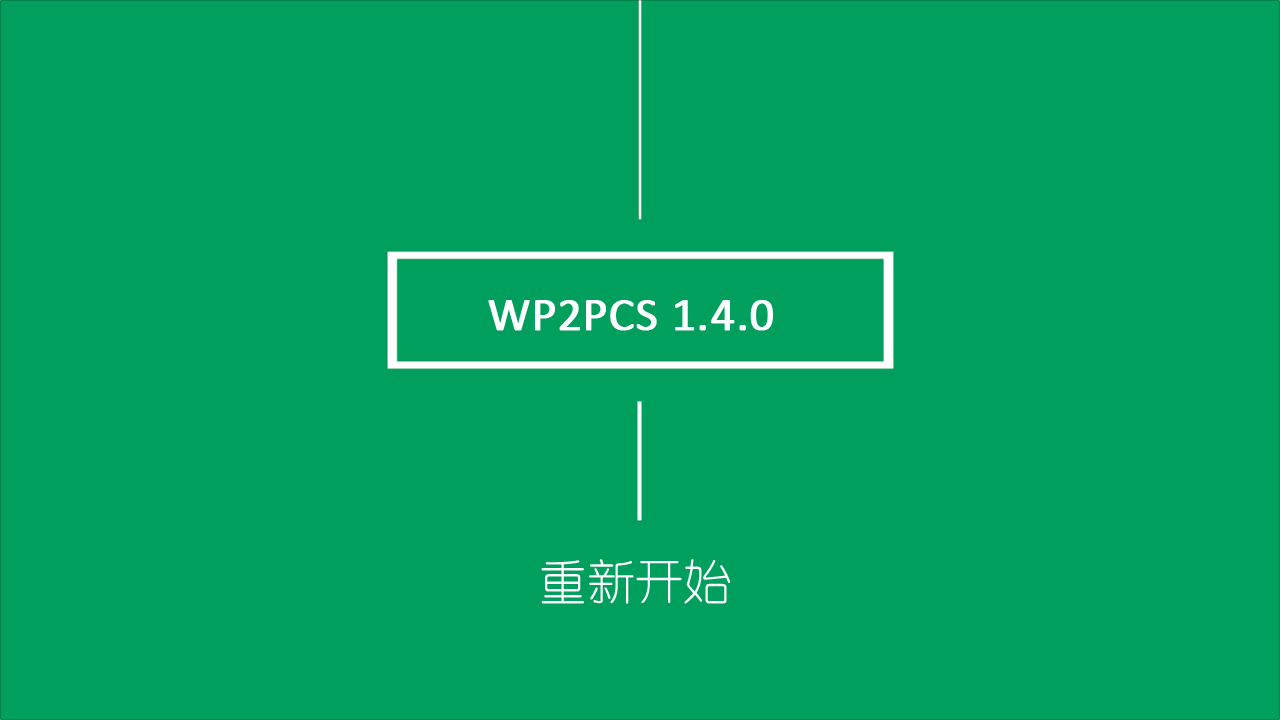
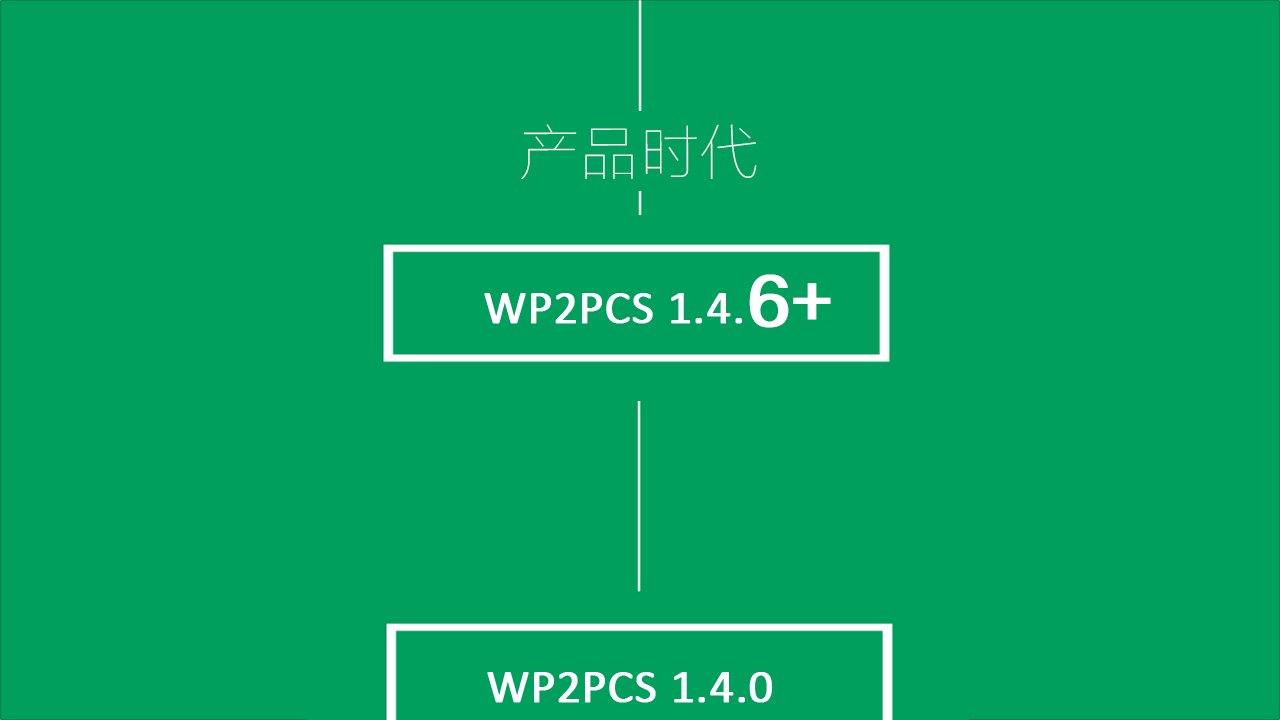
升级到1.4.6
git-svn-id: https://plugins.svn.wordpress.org/wp2pcs/trunk@1092182 b8457f37-d9ea-0310-8a92-e5e31aec5664

diff --git a/admin/setting-about.php b/admin/setting-about.php
@@ -33,6 +33,16 @@
 .feature-section .last-col {
   margin-right: 0 !important;
 }
+.feature-section ul {
+  padding-left: 1em;
+}
+.feature-section ul li {
+  list-style: disc;
+}
+.feature-section small {
+  font-size: .9em;
+  color: #999;
+}
 </style>
 
 <div class="wrap">
@@ -45,21 +55,27 @@
 </h2>
 
 <div class="update-about-feature headline-feature">
-	<h2>全新的1.4.0版本，为你带来超简化的酷爽体验！</h2>
-	<?php if(get_option('wp_to_pcs_app_token')) { echo '<p style="color: #DA4F25;">检测到你是从低版本升级上来的，1.4.0版本是一个全新的版本，以前的所有设置都无效了，你需要花点时间来看下怎么升级。点击<a href="http://www.wp2pcs.com/?p=432" target="_blank">这里</a>查看</p>'; } ?>
-	<div class="featured-image">
-		<img class="about-overview-img" src="<?php echo plugins_url('assets/about.png',WP2PCS_PLUGIN_NAME); ?>" width="640" height="360" />
-	</div>
-	<div class="clear"></div>
+  <h2>版本1.4.6+，中规中矩，进入产品阶段！</h2>
+  <div class="featured-image">
+    <img class="about-overview-img" src="<?php echo plugins_url('assets/about.png',WP2PCS_PLUGIN_NAME); ?>" width="640" height="360" />
+  </div>
+  <div class="clear"></div>
 </div>
 
 <hr />
 
 <div class="update-about-feature">
-	<div class="feature-section two-col">
+  <div class="feature-section two-col">
     <div class="col col-1">
-      <h3>更简洁的设置和操作</h3>
-      <p>后台的设置操作被简化的更加便捷，更加人性化，我们不要追求复杂，而是简化。</p>
+      <h3>备份网站数据和文件到云端</h3>
+      <p>后台简单设置，即可规定自动备份时间、路径、黑名单和白名单，简化一切复杂操作。</p>
+      <ul>
+        <li>定时备份，不再担心错过重要的数据</li>
+        <li>自动备份，无需每天守着</li>
+        <li>定义备份选项，根据需要备份网站</li>
+        <li>备份数据库和文件，统统都在云端</li>
+      </ul>
+      <p><small>要求：1.临时目录的可写权限；2.网站空间性能不至于太差。</small></p>
     </div>
     <div class="col col-2 last-col">
       <img src="<?php echo plugins_url('assets/about-1.jpg',WP2PCS_PLUGIN_NAME); ?>" />
@@ -71,13 +87,19 @@
 <hr />
 
 <div class="update-about-feature">
-	<div class="feature-section two-col">
+  <div class="feature-section two-col">
     <div class="col col-1">
       <img src="<?php echo plugins_url('assets/about-2.jpg',WP2PCS_PLUGIN_NAME); ?>" />
     </div>
     <div class="col col-2 last-col">
-      <h3>更酷炫的媒体插入界面</h3>
-      <p>优化了媒体插入界面，去除繁复，留下最好看的界面。</p>
+      <h3>调用云盘内的附件资源到网站内使用</h3>
+      <p>媒体插入界面，或者直接引用对应的URL，去除繁复，留下最熟悉的界面。</p>
+      <ul>
+        <li>操作方便，与WordPress媒体插入和管理统一界面</li>
+        <li>使用对应的URL，任何页面都可以使用附件</li>
+        <li>支持图片、小文件、mp3、mp4</li>
+        <li>支持url重写</li>
+      </ul>
     </div>
   </div>
   <div class="clear"></div>
@@ -86,20 +108,34 @@
 <hr />
 
 <div class="update-about-feature">
-  <h3>核心功能</h3>
-  <div class="feature-section three-col">
+  <div class="feature-section two-col">
     <div class="col col-1">
-      <h4>调用云盘资源</h4>
-      <p>把云盘当做你的存储空间，调用云盘资源到网站里面用。</p>
+      <h3>付费扩展其他功能</h3>
+      <p>外链，瞬间加速；基于WP2PCS的插件，各种酷酷的功能；成为付费用户，享受专享服务。</p>
+      <ul>
+        <li>付费站长，在你的站点开启外链URL形式，加速附件调用</li>
+        <li>自助外链服务，无需站点，随处都可以调用资源</li>
+        <li>功能扩展，酷酷的感觉~</li>
+      </ul>
+      <p>具体的付费服务，请点击<a href="http://www.wp2pcs.com/?page_id=730" target="_blank">这里</a>阅读</p>
     </div>
-    <div class="col col-2">
-      <h4>定时自动备份</h4>
-      <p>在设定的时间自动备份到云盘，让你的网站文件和数据解除风险。</p>
+    <div class="col col-2 last-col">
+      <img src="<?php echo plugins_url('assets/about-3.jpg',WP2PCS_PLUGIN_NAME); ?>" />
     </div>
-    <div class="col col-3 last-col">
-      <h4>付费用户</h4>
-      <p>成为付费用户，只需108元/年，专享付费特殊服务。</p>
-    </div>
+  </div>
+  <div class="clear"></div>
+</div>
+
+<hr />
+
+<div class="update-about-feature">
+  <h3>一句话总结</h3>
+  <div class="feature-section" style="text-align: center;">
+    <p>省去繁复，专注创造，让web生活酷酷哒~</p>
+    <p style="padding: 20px 0;">
+      <a href="<?php menu_page_url('wp2pcs-setting'); ?>" class="button-primary">立即开始</a>
+      <a href="http://www.wp2pcs.com/?cat=3" class="button" target="_blank">使用指南</a>
+    </p>
   </div>
   <div class="clear"></div>
 </div>

diff --git a/hook/token-cron-task.php b/hook/token-cron-task.php
@@ -1,0 +1,58 @@
+<?php
+
+add_action('wp2pcs_token_cron_task','wp2pcs_refresh_baidupcs_token');
+function wp2pcs_refresh_baidupcs_token() {
+  $access_token = get_option('wp2pcs_baidupcs_access_token');
+  $refresh_token = get_option('wp2pcs_baidupcs_refresh_token');
+  $vip_expire = get_option('wp2pcs_vip_expire');
+  $site_code = get_option('wp2pcs_site_code');
+  $site_id = get_option('wp2pcs_site_id');
+  // 如果refresh_token是一个月以前的，那么就更新之
+  if(time() > $refresh_token['time'] + 3600*24*28) {
+    $post_data = array(
+      'refresh_token' => $refresh_token['token']
+    );
+    if($site_id && $site_code) {
+      $post_data['site_id'] = $site_id;
+      $post_data['code'] = md5($site_code);
+    }
+    $data = get_by_curl('https://api.wp2pcs.com/oauth_baidupcs_refresh_token.php',$post_data);
+    $data = json_decode($data);
+    if(isset($data->access_token) && isset($data->refresh_token)) {
+      $access_token = $data->access_token;
+      $refresh_token = array(
+        'time' => time(),
+        'token' => $data->refresh_token
+      );
+      update_option('wp2pcs_baidupcs_access_token',$access_token);
+      update_option('wp2pcs_baidupcs_refresh_token',$refresh_token);
+    }
+  }
+  // 如果会员已经过期了
+  if($site_code && $site_id) {
+    $site_url = substr(home_url(),strpos(home_url(),'://')+3);
+    $data = get_by_curl('https://api.wp2pcs.com/get_site_id.php',array(
+      'site_url' => $site_url,
+      'site_code' => $site_code,
+      'access_token' => $access_token,
+      'refresh_token' => $refresh_token['token']
+    ));
+    if($data) {
+      $data = json_decode($data);
+      if(isset($data->site_id) && $data->expire_time > time()) {
+        update_option('wp2pcs_site_id',$data->site_id);
+        update_option('wp2pcs_vip_expire',$data->expire_time);
+      }
+      if($vip_expire > $data->expire_time) {
+        delete_option('wp2pcs_site_id');
+        delete_option('wp2pcs_site_code');
+        delete_option('wp2pcs_vip_expire');
+      }
+    }
+  }
+}
+
+add_action('wp_footer','wp2pcs_footer_copyright',-10);
+function wp2pcs_footer_copyright() {
+  echo '<!-- 本站由WP2PCS驱动，自动备份网站到云盘，调用云盘资源 http://www.wp2pcs.com -->'."\n";
+}

diff --git a/hook/load.php b/hook/load.php
@@ -41,10 +41,39 @@ global $BaiduPCS;
 $meta = $BaiduPCS->getMeta($path);
 $meta = json_decode($meta);
 // 如果文件不存在，就试图从共享目录中抓取文件
-if(isset($meta->error_code) && $meta->error_code == '31066') {
+if(isset($meta->error_code) && $meta->error_code == 31066) {
   $path = str_replace(BAIDUPCS_REMOTE_ROOT.'/load/','/apps/wp2pcs/share/',$path);
   $meta = $BaiduPCS->getMeta($path);
   $meta = json_decode($meta);
+}
+// 如果该access_token无法正确获取权限
+if(isset($meta->error_code) && $meta->error_code == 111) {
+  $refresh_token = get_option('wp2pcs_baidupcs_refresh_token');
+  $refresh_token = $refresh_token['token'];
+  $site_id = get_option('wp2pcs_site_id');
+  $site_code = get_option('wp2pcs_site_code');
+  $post_data = array(
+    'refresh_token' => $wp2pcs_baidupcs_refresh_token['token']
+  );
+  if($site_id && $site_code) {
+    $post_data['site_id'] = $site_id;
+    $post_data['code'] = md5($site_code);
+  }
+  $data = get_by_curl('https://api.wp2pcs.com/oauth_baidupcs_refresh_token.php',$post_data);
+  $data = json_decode($data);
+  if($data->access_token && $data->refresh_token) {
+    $access_token = $data->access_token;
+    $refresh_token = array(
+      'time' => time(),
+      'token' => $data->refresh_token
+    );
+    update_option('wp2pcs_baidupcs_access_token',$access_token);
+    update_option('wp2pcs_baidupcs_refresh_token',$refresh_token);
+    // 用新的token获取文件信息
+    $BaiduPCS = new BaiduPCS($access_token);
+    $meta = $BaiduPCS->getMeta($path);
+    $meta = json_decode($meta);
+  }
 }
 // 如果抓取错误
 if(isset($meta->error_msg)){

diff --git a/hook/install.php b/hook/install.php
@@ -2,19 +2,14 @@
 
 register_activation_hook(WP2PCS_PLUGIN_NAME,'wp2pcs_install');
 function wp2pcs_install(){
-  $run_time = strtotime(date('Y-m-d 01:00:00',strtotime('+7 day')));
-  wp_schedule_event($run_time,'weekly','wp2pcs_token_cron_task');
-  add_option('wp2pcs_do_activation_redirect',true);
+  wp_schedule_event(strtotime('+7 days'),'weekly','wp2pcs_token_cron_task');
 }
 
 add_action('admin_init','wp2pcs_install_redirect');
 function wp2pcs_install_redirect() {
-  if(get_option('wp_to_pcs_app_key')) { // 如果存在这个值，说明是从老版本升级过来的
-    add_option('wp2pcs_do_activation_redirect',true);
-    delete_option('wp_to_pcs_app_key');
-  }
-  if(get_option('wp2pcs_do_activation_redirect')) {
-    delete_option('wp2pcs_do_activation_redirect');
+  $plugin_version = get_option('wp2pcs_plugin_version');
+  if($plugin_version < WP2PCS_PLUGIN_VERSION) {
+    update_option('wp2pcs_plugin_version',WP2PCS_PLUGIN_VERSION);
     wp_redirect(add_query_arg(array('tab'=>'about','time'=>time()),menu_page_url('wp2pcs-setting',false)));
   }
 }

diff --git a/wp2pcs.php b/wp2pcs.php
@@ -4,13 +4,14 @@
 Plugin Name: WP2PCS
 Plugin URI: http://www.wp2pcs.com/
 Description: 本插件帮助网站站长将网站和百度网盘连接。网站定时备份，调用网盘资源在网站中使用。
-Version: 1.4.5
+Version: 1.4.6
 Author: 否子戈
 Author URI: http://www.utubon.com
 */
 
 date_default_timezone_set('PRC');
 define('WP2PCS_PLUGIN_NAME',__FILE__);
+define('WP2PCS_PLUGIN_VERSION','1.4.6');
 
 // 包含一些必备的函数和类，以提供下面使用
 require 'config.php';
